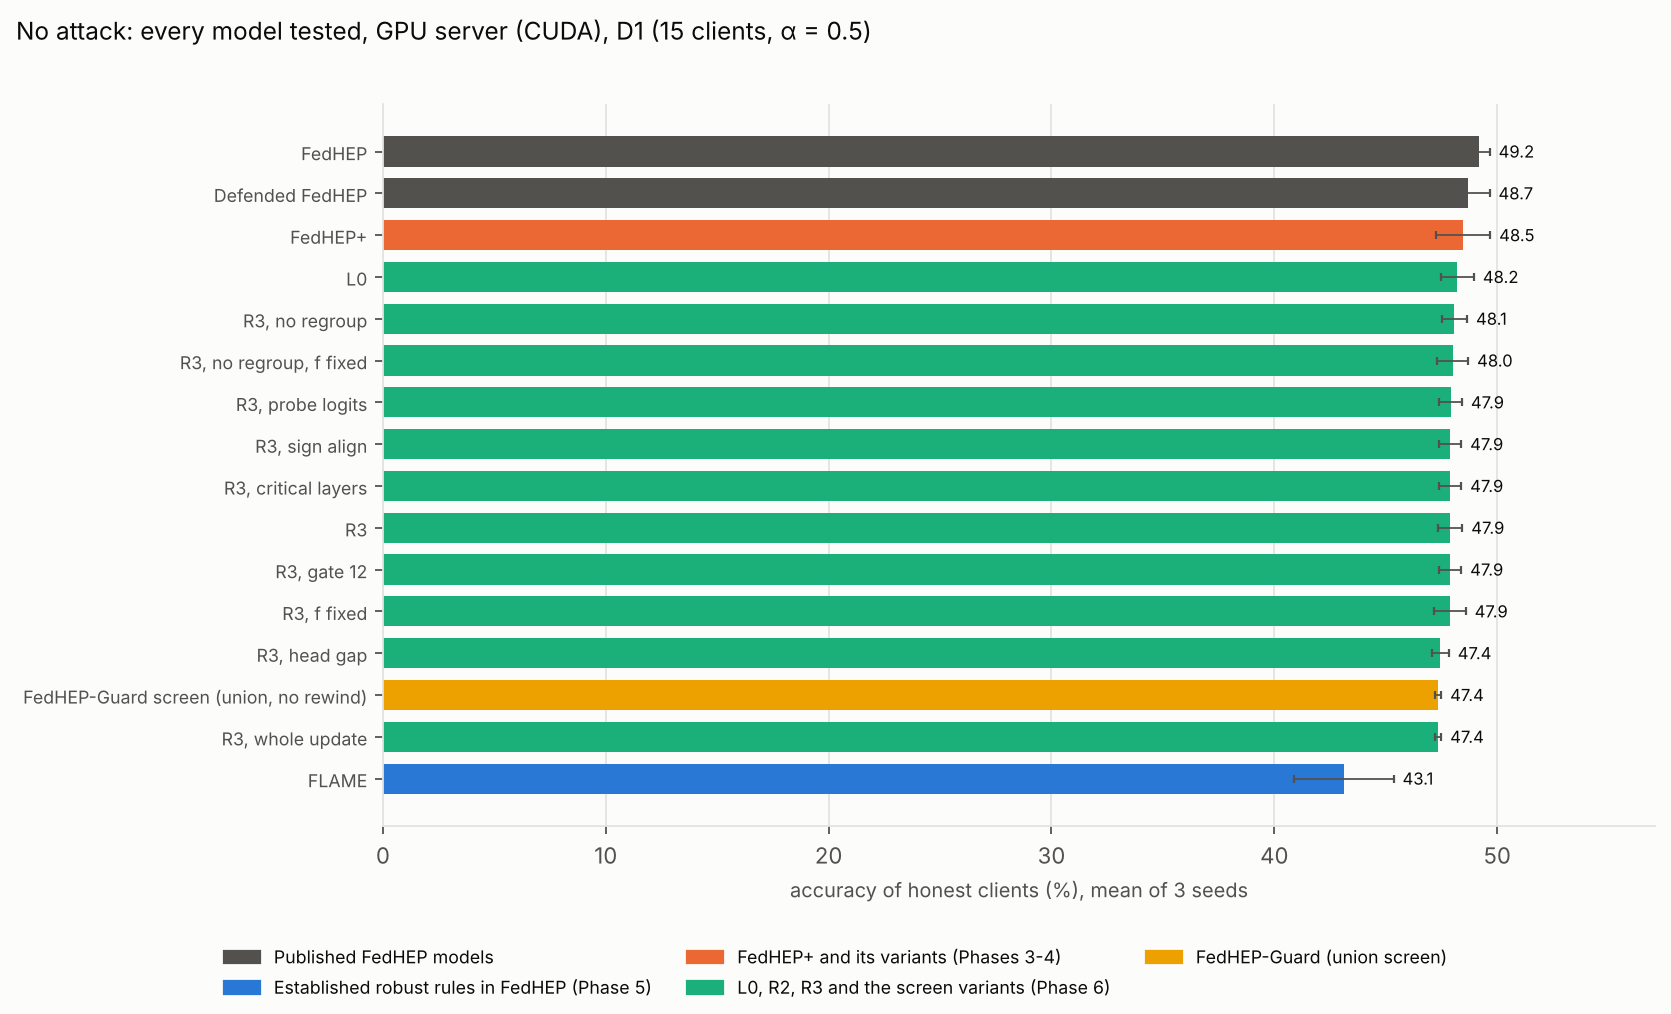
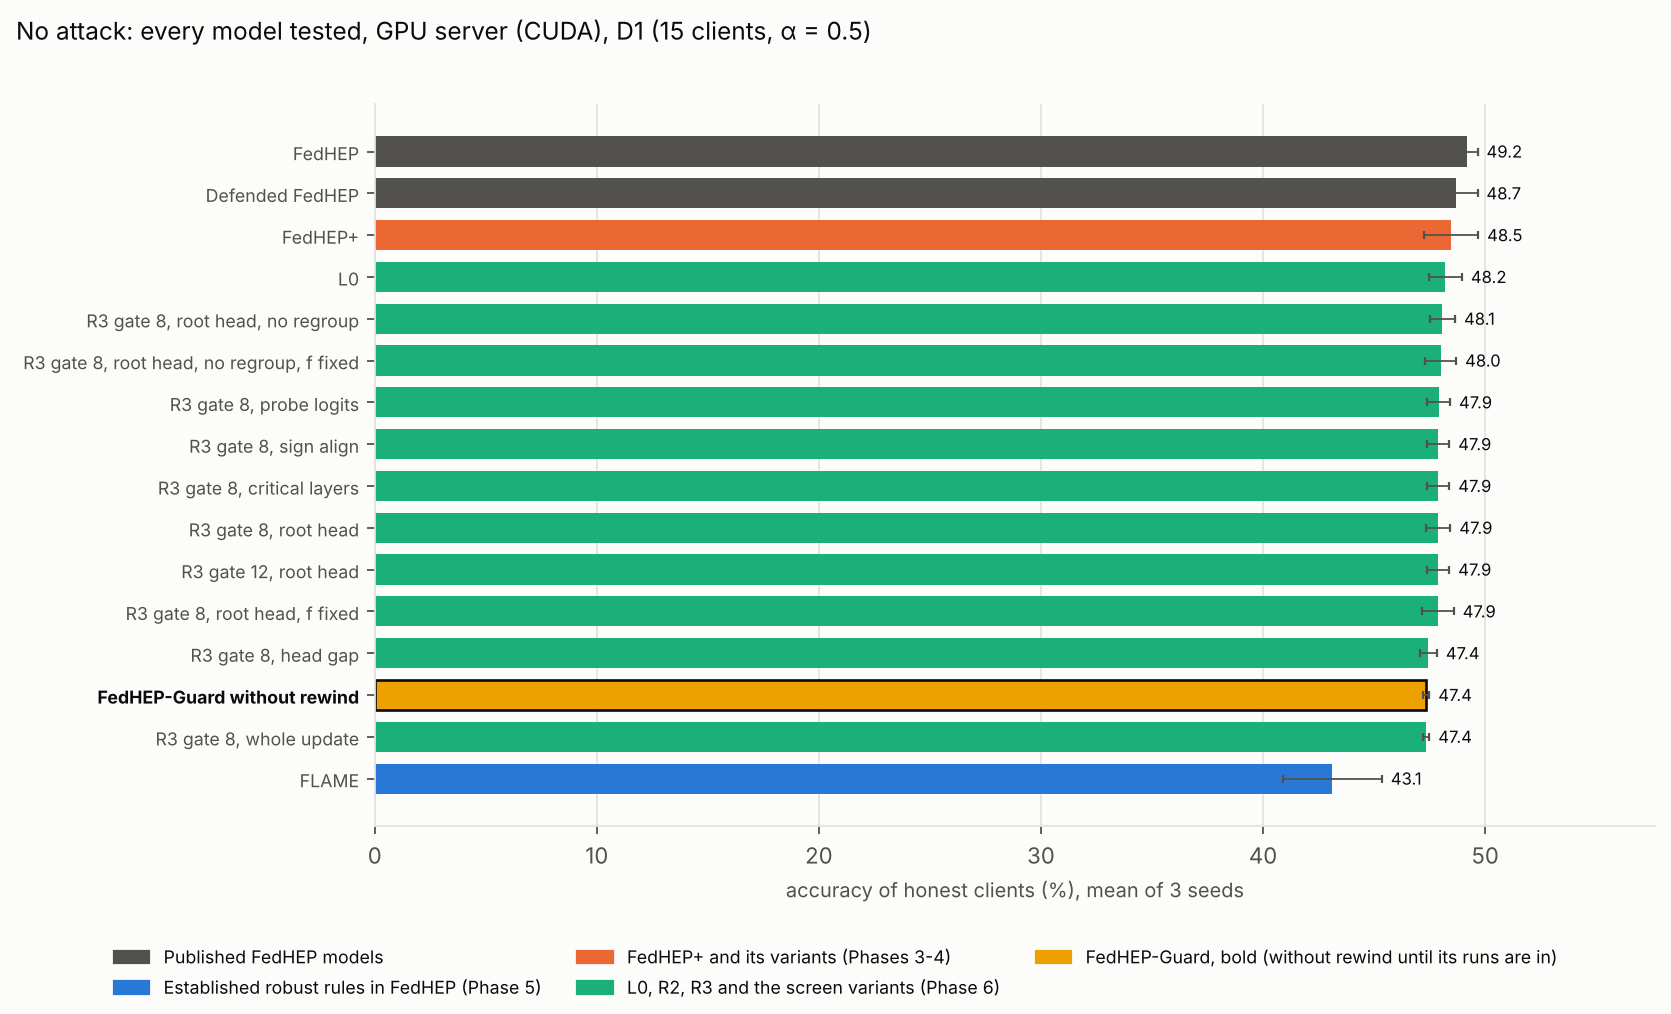
Mark FedHEP-Guard in the all-models charts and tables; R3 labels name gate and signal; why gate 8; what of FedHEP-Guard has been run
Claude-Session: https://claude.ai/code/session_01PHkRgbQ7u74x39uCQjqDze

diff --git a/scripts/plot_all_models.py b/scripts/plot_all_models.py
@@ -36,7 +36,8 @@ ATTACKS = [("clean", "No attack"), ("sign_flip", "Sign flip"), ("label_flip", "L
 FAMILIES = [("Baselines (FedAvg, Multi-Krum)", "#9a9893"), ("Published FedHEP models", "#52514e"),
             ("Established robust rules in FedHEP (Phase 5)", pr.SLOT[0]),
             ("FedHEP+ and its variants (Phases 3-4)", pr.SLOT[1]),
-            ("L0, R2, R3 and the screen variants (Phase 6)", pr.SLOT[2]), ("FedHEP-Guard (union screen)", pr.SLOT[3])]
+            ("L0, R2, R3 and the screen variants (Phase 6)", pr.SLOT[2]),
+            ("FedHEP-Guard, bold (without rewind until its runs are in)", pr.SLOT[3])]
 EVAL_ONLY = {("fedhep", "exit_guard"), ("fedhep", "head_agreement"), ("run", "eval_every"), ("run", "output_dir"),
              ("run", "device"), ("run", "seed"), ("run", "deterministic")}
 
@@ -99,11 +100,11 @@ def label(cfg: dict) -> tuple[str, int]:
         extra.append({"trunk": "rewind trunk", "trunk_root": "rewind trunk + root", "all": "rewind all"}[rw])
     if p.get("global_rule") == "arc_nnm_tm":
         if p.get("signal") == "weights_critical":
-            name = "FedHEP-Guard" if rw == "trunk_root" else "FedHEP-Guard screen (union, no rewind)"
+            name = "FedHEP-Guard" if rw == "trunk_root" else "FedHEP-Guard without rewind"
             return name + "".join(f", {x}" for x in extra if not x.startswith("rewind")), 5
         gate = p.get("gap_gate", 0)
-        name = "R2" if not gate else ("R3" if gate == 8 else f"R3, gate {gate:g}")
-        return name + sig + "".join(f", {x}" for x in extra), 4
+        name = "R2" if not gate else f"R3 gate {gate:g}"
+        return name + (sig or ", root head") + "".join(f", {x}" for x in extra), 4
     # SCCF Global step: FedHEP+ and its Phase 3-4 variants
     head = "FedHEP+"
     if p.get("drill_down"):
@@ -193,9 +194,18 @@ def chart(dev: str, att: str, title: str, rows: dict) -> None:
         for y, (m_, s_) in enumerate(zip(mu, sd, strict=True)):
             ax.text(m_ + s_ + 0.4, y, f"{m_:.1f}", va="center", fontsize=7.5)
         ax.set_xlabel(xlabel, fontsize=9)
-        ax.set_xlim(0, max(mu) * 1.12 + 2)
+        ax.set_xlim(0, max(m_ + s_ for m_, s_ in zip(mu, sd, strict=True)) * 1.1 + 3)
         ax.grid(axis="y", visible=False)
     axes[0][0].set_yticks(list(ys), [name for name, _ in items], fontsize=8)
+    for tick, (name, v) in zip(axes[0][0].get_yticklabels(), items, strict=True):
+        if v["family"] == 5:   # FedHEP-Guard (or, until its runs exist, FedHEP-Guard without the rewind)
+            tick.set_fontweight("bold")
+            tick.set_color(pr.INK)
+    for ax_row in axes[0]:
+        for bar, (_, v) in zip(ax_row.patches, items, strict=False):
+            if v["family"] == 5:
+                bar.set_edgecolor(pr.INK)
+                bar.set_linewidth(1.2)
     used = sorted({v["family"] for _, v in items})
     handles = [plt.Rectangle((0, 0), 1, 1, color=FAMILIES[f][1]) for f in used]
     fig.legend(handles, [FAMILIES[f][0] for f in used], loc="lower center", ncols=min(3, len(used)), fontsize=8,

diff --git a/docs/report/07_benchmark.md b/docs/report/07_benchmark.md
@@ -81,16 +81,18 @@ The charts are made by `python scripts/plot_all_models.py outputs`, which also w
 
 ### Mac (MPS)
 
-| Attack | Chart | Models | Best accuracy | Note |
-|---|---|---|---|---|
-| No attack | `figures/all_models_mac_clean.png` | 31 | Defended FedHEP 48.4 | the FedHEP family sits within 1.5 points; FLAME 42.8, Multi-Krum 23.4 |
-| Sign flip | `figures/all_models_mac_sign_flip.png` | 23 | FedHEP+ (full population) 46.4, R3 46.1–46.2 | every screen holds; Defended FedHEP 38.1, FedHEP 33.7, FedAvg 8.5 |
-| Label flip | `figures/all_models_mac_label_flip.png` | 17 | FedHEP+ 46.3 | the FedHEP+ family takes the top 7 places |
-| Random noise | `figures/all_models_mac_random_noise.png` | 17 | Median 46.6 | FedHEP 5.4 and FedAvg 1.2 collapse |
-| ALIE | `figures/all_models_mac_alie.png` | 14 | FedHEP 47.8, L0 47.6, FedHEP+ 47.6 | the two-sided screens lose 1.7–3.1 points (the ALIE puzzle, 5.3f); FLAME 40.8 |
-| Min-Max | `figures/all_models_mac_min_max.png` | 11 | R3 46.0–46.1 | Bulyan 37.5 |
-| Backdoor | `figures/all_models_mac_backdoor.png` | 31 | R3, gate 12 47.0 | success under 1%: whole-update screen (with or without rewind), union screen, Bulyan, FLAME, Multi-Krum |
-| Stealth backdoor | `figures/all_models_mac_stealth_backdoor.png` | 7 | L0 46.9 | success under 1%: union screen (0.4%) and FLAME (0.8%) |
+FedHEP-Guard itself (union screen **and** rewind) has not been run yet; its first runs are the benchmark (`bm_*__guard`) and the Acer's `x9__` sweep. The charts therefore mark its closest relative, **FedHEP-Guard without rewind** (the union screen, `r3wc`), in bold. "R3 gate 8, root head" is the Phase 6 rung FedHEP-Guard is built on, not FedHEP-Guard (chapter 6.8, 6.14).
+
+| Attack | Chart | Models | Best accuracy | FedHEP-Guard without rewind | Note |
+|---|---|---|---|---|---|
+| No attack | `figures/all_models_mac_clean.png` | 31 | Defended FedHEP 48.4 | not run on the Mac | the FedHEP family sits within 1.5 points; FLAME 42.8, Multi-Krum 23.4 |
+| Sign flip | `figures/all_models_mac_sign_flip.png` | 23 | FedHEP+ (full population) 46.4; R3 gate 8 and 12, root head, 46.1–46.2 | not run on the Mac | every screen holds; Defended FedHEP 38.1, FedHEP 33.7, FedAvg 8.5 |
+| Label flip | `figures/all_models_mac_label_flip.png` | 17 | FedHEP+ 46.3 | not run on the Mac | the FedHEP+ family takes the top 7 places |
+| Random noise | `figures/all_models_mac_random_noise.png` | 17 | Median 46.6 | not run on the Mac | FedHEP 5.4 and FedAvg 1.2 collapse |
+| ALIE | `figures/all_models_mac_alie.png` | 14 | FedHEP 47.8, L0 47.6, FedHEP+ 47.6 | not run on the Mac | the two-sided screens lose 1.7–3.1 points (the ALIE puzzle, 5.3f); FLAME 40.8 |
+| Min-Max | `figures/all_models_mac_min_max.png` | 11 | R3 gate 8 and 12, root head, 46.0–46.1 | not run on the Mac | Bulyan 37.5 |
+| Backdoor | `figures/all_models_mac_backdoor.png` | 31 | R3 gate 12, root head, 47.0 (success 62%) | 46.1, rank 21 of 31; success **0.8%** | success under 1%: whole-update screen (with or without rewind), union screen, Bulyan, FLAME, Multi-Krum |
+| Stealth backdoor | `figures/all_models_mac_stealth_backdoor.png` | 7 | L0 46.9 (success 69%) | 45.2, rank 6 of 7; success **0.4%** | success under 1%: union screen and FLAME (0.8%) only |
 
 ![Every model, no attack, Mac](../figures/all_models_mac_clean.png)
 
@@ -110,13 +112,13 @@ The charts are made by `python scripts/plot_all_models.py outputs`, which also w
 
 ### GPU server (CUDA)
 
-| Attack | Chart | Models | Best accuracy | Note |
-|---|---|---|---|---|
-| No attack | `figures/all_models_gpu_clean.png` | 16 | FedHEP 49.2 | R3 and its variants 47.4–48.1; FLAME 43.1 |
-| Sign flip | `figures/all_models_gpu_sign_flip.png` | 13 | FedHEP+ 46.3, R3 46.1 | L0 41.6, Defended FedHEP 38.8, FedHEP 33.8 |
-| ALIE | `figures/all_models_gpu_alie.png` | 16 | FedHEP+ 47.8 | union screen 45.3; FLAME 41.7 |
-| Min-Max | `figures/all_models_gpu_min_max.png` | 12 | R3 with sign alignment 46.4 | FLAME 43.1 |
-| Backdoor | `figures/all_models_gpu_backdoor.png` | 12 | Defended FedHEP 47.5 | success under 1%: union screen (0.6%) and FLAME (0.5%) only |
+| Attack | Chart | Models | Best accuracy | FedHEP-Guard without rewind | Note |
+|---|---|---|---|---|---|
+| No attack | `figures/all_models_gpu_clean.png` | 16 | FedHEP 49.2 | 47.4, rank 15 of 16 | R3 and its variants 47.4–48.1; FLAME 43.1 |
+| Sign flip | `figures/all_models_gpu_sign_flip.png` | 13 | FedHEP+ 46.3; R3 gate 8, root head, 46.1 | 45.8, rank 9 of 13 | L0 41.6, Defended FedHEP 38.8, FedHEP 33.8 |
+| ALIE | `figures/all_models_gpu_alie.png` | 16 | FedHEP+ 47.8 | 45.3, rank 14 of 16 | FLAME 41.7 |
+| Min-Max | `figures/all_models_gpu_min_max.png` | 12 | R3 gate 8, sign alignment, 46.4 | 45.6, rank 8 of 12 | FLAME 43.1 |
+| Backdoor | `figures/all_models_gpu_backdoor.png` | 12 | Defended FedHEP 47.5 (success 79%) | 44.8, rank 10 of 12; success **0.6%** | success under 1%: union screen and FLAME (0.5%) only |
 
 ![Every model, no attack, GPU](../figures/all_models_gpu_clean.png)
 

diff --git a/docs/report/06_fedhep_guard.md b/docs/report/06_fedhep_guard.md
@@ -90,6 +90,13 @@ With $\gamma = 8$, a round of honest but spread-out clients has no outstanding g
 | $g$ | gap ratio, logged every round as `score_stats.gap_ratio` | — |
 | $\gamma$ | gate threshold (0 = off; 8 and 12 tested) | `plus.gap_gate` |
 
+**Why 8 and not 12.** Both were tested on the ladder (6.8), with the root-head signal:
+- **Accuracy** is the same within 0.2 points at D1, under every attack.
+- **Gate 12 isolates fewer honest clients:** 0–0.3 per run at D1 against 0.7–1.0, and 2 / 1 / 0 / 6 over 3 runs at D2 against 3 / 6 / 8 / 7.
+- **Gate 12 lets more backdoor in:** 62% against 51% at D1, because the gate also stops the attackers' evidence when their split is weaker than 12.
+
+The decision came with the union screen. FedHEP-Guard needs the backdoor attackers caught, and in the GPU grid their split is weak. In the rounds where the largest gap separated exactly the backdoor attackers (union screen, 15 clients, α = 0.5), the gap ratio reached 8 in 76% of rounds but 12 in only 45%. In honest rounds the gate opened 25% of the time at 8 and 11% at 12. Gate 12 would roughly halve the chance openings, and also lose about four in ten backdoor catches. Gate 12 with the union screen has not been run; this comes from the logs, not from a run. Why no fixed threshold solves this, and the experiment that replaces it, are in 6.12 and 6.15.
+
 ## 6.4 [1] Two signals and their union
 
 > **Why it is in the model.** What a defense cannot see, it cannot screen. FedHEP+ scored only the root head's rows for each client's classes, a small part of the root head, which is itself 1.5% of the model's 1.72 million weights. A backdoor is learned mostly in the trunk, so the root-head screen missed it on every seed at D1 on the GPU (32 / 70 / 68%).
@@ -364,6 +371,17 @@ So the gap ratio cannot tell an honest client with unusual data from a backdoor 
 4. **The root-head-only gate** (R3 as in 6.8) has the best no-attack accuracy but lets backdoors in. FedHEP-Guard trades about 1 point for backdoor protection.
 
 ## 6.14 FedHEP-Guard's exact configuration
+
+FedHEP-Guard is **R3 with gate 8** (the L0 Global step, two-sided screen, gap gate 8, patience 3) plus **the union screen** [1] and **the trunk-and-root rewind** [6]. "R3" alone in a table or chart means the ladder rung with the root-head signal, not FedHEP-Guard.
+
+**What has been run so far.** No run has all of FedHEP-Guard's parts yet:
+
+| Run | Has | Lacks | Where |
+|---|---|---|---|
+| FedHEP-Guard without rewind (`r3wc`) | everything but the rewind | [6] | GPU grid (all attacks), Mac stealth study, Acer |
+| R3 whole update with rewind (`r3w_tr`) | rewind; whole-update half of the union | critical-layer half of [1] | Mac (30 rounds), Acer (100 rounds) |
+| FedHEP-Guard (`guard`) | all parts | — | queued: GPU benchmark `bm_*__guard`, Acer `x9__r3wc_tr` |
+
 
 ```yaml
 config: configs/cifar100_fedhep_defended.yaml    # FedHEP model and training, Defended FedHEP's SCCF at parents
